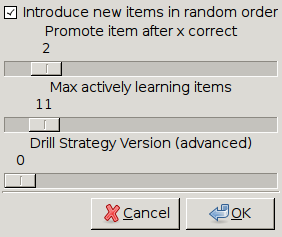
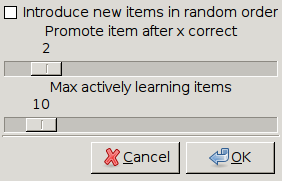
Remove the strategy version from the options.

Changed region(s): [[0.0, 0.0, 0.9929, 0.9945]]

diff --git a/lib/jldrill/model/Quiz/Options.rb b/lib/jldrill/model/Quiz/Options.rb
@@ -4,13 +4,12 @@ module JLDrill
     # Options for the standard quiz.
     class Options
         attr_reader :randomOrder, :promoteThresh, :introThresh, :oldThresh,
-                        :strategyVersion, :reviewMode
+                        :reviewMode
 
         RANDOM_ORDER_RE = /^Random Order/
         PROMOTE_THRESH_RE = /^Promotion Threshold: (.*)/
         INTRO_THRESH_RE = /^Introduction Threshold: (.*)/
         OLD_THRESH_RE = /^Old Threshold: (.*)/
-        STRATEGY_VERSION_RE = /^Strategy Version: (.*)/
             
         def initialize(quiz)
             @quiz = quiz
@@ -18,7 +17,6 @@ module JLDrill
             @promoteThresh = 2
             @introThresh = 10
             @oldThresh = 90
-            @strategyVersion = 0
             @reviewMode = false
         end
         
@@ -28,7 +26,6 @@ module JLDrill
             retVal.promoteThresh = @promoteThresh
             retVal.introThresh = @introThresh
             retVal.oldThresh = @oldThresh
-            retVal.strategyVersion = @strategyVersion
             retVal.reviewMode = @reviewMode
             retVal
         end
@@ -38,7 +35,6 @@ module JLDrill
             options.promoteThresh == @promoteThresh &&
             options.introThresh == @introThresh &&
             options.oldThresh == @oldThresh &&
-            options.strategyVersion == @strategyVersion &&
             options.reviewMode == @reviewMode
         end
             
@@ -57,7 +53,6 @@ module JLDrill
             self.promoteThresh = options.promoteThresh
             self.introThresh = options.introThresh
             self.oldThresh = options.oldThresh
-            self.strategyVersion = options.strategyVersion
         end
         
         def randomOrder=(value)
@@ -88,13 +83,6 @@ module JLDrill
             end
         end
 
-        def strategyVersion=(value)
-            if @strategyVersion != value
-                @strategyVersion = value
-                saveNeeded
-            end
-        end
-
         # Note: Review Mode isn't saved so no save needed    
         def reviewMode=(value)
             if @reviewMode != value
@@ -112,8 +100,6 @@ module JLDrill
                     self.promoteThresh = $1.to_i
                 when INTRO_THRESH_RE 
                     self.introThresh = $1.to_i
-                when STRATEGY_VERSION_RE 
-                    self.strategyVersion = $1.to_i
                 else
                     parsed = false
             end
@@ -122,7 +108,7 @@ module JLDrill
         
         # Return a string showing the current state of the options
         def status
-            retVal = @strategyVersion.to_s
+            retVal = ""
             if(@randomOrder) then retVal += "R" end
             retVal += "(#{@promoteThresh},#{@introThresh})"
             retVal
@@ -135,7 +121,6 @@ module JLDrill
             end
             retVal += "Promotion Threshold: #{@promoteThresh}\n"
             retVal += "Introduction Threshold: #{@introThresh}\n"
-            retVal += "Strategy Version: #{@strategyVersion}\n"
             retVal
         end
     end

diff --git a/spec/jldrill/model/Quiz/Options_spec.rb b/spec/jldrill/model/Quiz/Options_spec.rb
@@ -51,35 +51,25 @@ module JLDrill
 	        test_changeOption("oldThresh", 90, 85)
 	    end
 	    
-	    it "should be able to set the Strategy Version" do
-	        test_changeOption("strategyVersion", 0, 1)
-	    end
-	    
-	    it "should be able to parse Strategy Version" do
-	        test_parseOption("Strategy Version: 1", "strategyVersion", 0, 1)
-	    end
-
 	    it "should be able to write out the options" do
-	        @quiz.should_receive(:setNeedsSave).with(true).exactly(4).times
+	        @quiz.should_receive(:setNeedsSave).with(true).exactly(3).times
 	        @options.randomOrder = true
 	        @options.promoteThresh = 1
 	        @options.introThresh = 20
-	        @options.strategyVersion = 1
-            @options.to_s.should be_eql("Random Order\nPromotion Threshold: 1\nIntroduction Threshold: 20\nStrategy Version: 1\n")
-            @options.status.should be_eql("1R(1,20)")
+            @options.to_s.should be_eql("Random Order\nPromotion Threshold: 1\nIntroduction Threshold: 20\n")
+            @options.status.should be_eql("R(1,20)")
 	    end
 	    
 	    it "should be able to assign the options to another options object" do
-	        @quiz.should_receive(:setNeedsSave).with(true).exactly(4).times
+	        @quiz.should_receive(:setNeedsSave).with(true).exactly(3).times
 	        @options.randomOrder = true
 	        @options.promoteThresh = 1
 	        @options.introThresh = 20
-	        @options.strategyVersion = 1
-            @options.to_s.should be_eql("Random Order\nPromotion Threshold: 1\nIntroduction Threshold: 20\nStrategy Version: 1\n")
+            @options.to_s.should be_eql("Random Order\nPromotion Threshold: 1\nIntroduction Threshold: 20\n")
             newOptions = Options.new(nil)
-            newOptions.to_s.should_not be_eql("Random Order\nPromotion Threshold: 1\nIntroduction Threshold: 20\nStrategy Version: 1\n")            
+            newOptions.to_s.should_not be_eql("Random Order\nPromotion Threshold: 1\nIntroduction Threshold: 20\n")
             newOptions.assign(@options)
-            newOptions.to_s.should be_eql("Random Order\nPromotion Threshold: 1\nIntroduction Threshold: 20\nStrategy Version: 1\n")            
+            newOptions.to_s.should be_eql("Random Order\nPromotion Threshold: 1\nIntroduction Threshold: 20\n")
         end	    
 	
     end

diff --git a/lib/jldrill/views/gtk/widgets/OptionsWindow.rb b/lib/jldrill/views/gtk/widgets/OptionsWindow.rb
@@ -14,15 +14,12 @@ module JLDrill::Gtk
             @randomOrder = Gtk::CheckButton.new("Introduce new items in random order")
             @promoteThresh = Gtk::HScale.new(1,10,1)
             @introThresh = Gtk::HScale.new(1,100,1)
-            @strategyVersion = Gtk::HScale.new(0,1,1)
             
             self.vbox.add(@randomOrder)
             self.vbox.add(Gtk::Label.new("Promote item after x correct"))
             self.vbox.add(@promoteThresh)
             self.vbox.add(Gtk::Label.new("Max actively learning items"))
             self.vbox.add(@introThresh)
-            self.vbox.add(Gtk::Label.new("Drill Strategy Version (advanced)"))
-            self.vbox.add(@strategyVersion)
         end
         
         def randomOrder=(value)
@@ -49,19 +46,10 @@ module JLDrill::Gtk
             @introThresh.value.to_i
         end
         
-        def strategyVersion=(value)
-            @strategyVersion.value = value
-        end
-        
-        def strategyVersion
-            @strategyVersion.value.to_i
-        end
-        
         def set(options)
             self.randomOrder = options.randomOrder
             self.promoteThresh = options.promoteThresh
             self.introThresh = options.introThresh
-            self.strategyVersion = options.strategyVersion
         end
         
         def updateFromViewData
@@ -73,7 +61,6 @@ module JLDrill::Gtk
             @view.options.randomOrder = self.randomOrder
             @view.options.promoteThresh = self.promoteThresh
             @view.options.introThresh = self.introThresh
-            @view.options.strategyVersion = self.strategyVersion
         end
         
         def execute

diff --git a/spec/jldrill/views/gtk/OptionsView_spec.rb b/spec/jldrill/views/gtk/OptionsView_spec.rb
@@ -29,7 +29,6 @@ module JLDrill::Gtk
 		    @story.mainContext.quiz.options.randomOrder = true
 		    @story.mainContext.quiz.options.promoteThresh = 3
 		    @story.mainContext.quiz.options.introThresh = 20
-		    @story.mainContext.quiz.options.strategyVersion = 1
 		    
 		    quizOptions = @story.mainContext.quiz.options.clone
 
@@ -37,7 +36,6 @@ module JLDrill::Gtk
    		    existingOptions.randomOrder = false
    		    existingOptions.promoteThresh = 4
    		    existingOptions.introThresh = 15
-   		    existingOptions.strategyVersion = 0
    		    @story.view.optionsWindow.set(existingOptions)
    		    
    		    @story.enterAndPressButton(@story.view.optionsWindow, @OK)
@@ -103,9 +101,5 @@ module JLDrill::Gtk
             test_setValue("introThresh", 10, 20)
         end
 
-        it "should be able to set the Strategy Version option" do
-            test_setValue("strategyVersion", 0, 1)
-        end
-        
 	end
 end

diff --git a/lib/jldrill/spec/SampleQuiz.rb b/lib/jldrill/spec/SampleQuiz.rb
@@ -17,8 +17,7 @@ module JLDrill
         FileOptions = %Q[
 Random Order
 Promotion Threshold: 4
-Introduction Threshold: 17
-Strategy Version: 0]
+Introduction Threshold: 17]
 
         FileVocab = %Q[
 Unseen
